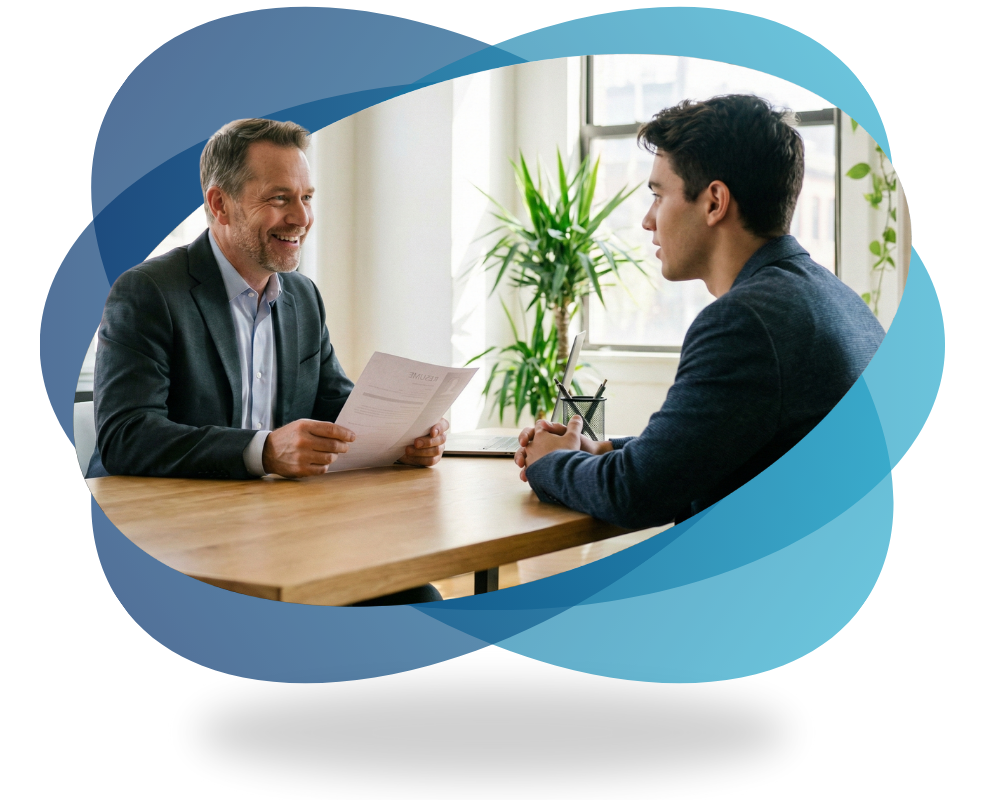
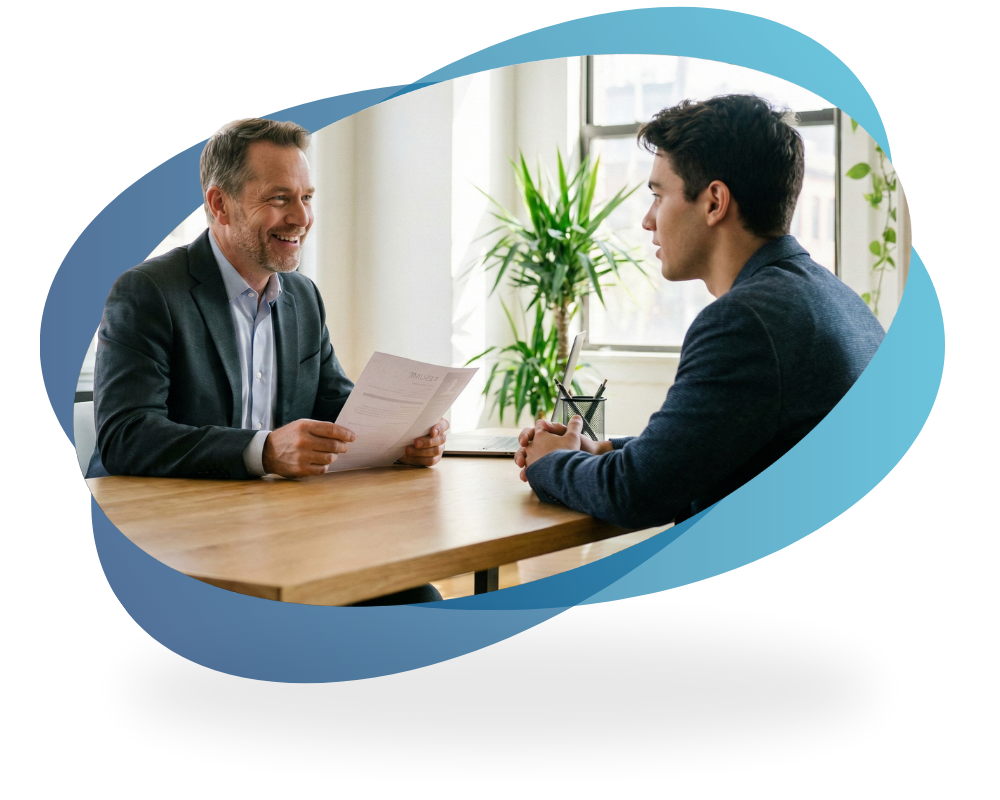
atualização da imagem

Changed region(s): [[0.217, 0.4688, 0.899, 0.9688], [0.093, 0.0, 0.527, 0.375]]

diff --git a/src/app/(site)/page.tsx b/src/app/(site)/page.tsx
@@ -1,4 +1,5 @@
-import Image from "next/image"; // Importe o componente Image
+import Image from "next/image";
+import Link from "next/link";
 import SearchBar from "@/src/components/SearchBar";
 import heroBgImage from "@/src/assets/backgrounds/bg-1.png";
 import { ButtonType } from "@/src/components/ButtonType";
@@ -8,8 +9,11 @@ import FAQ from "@/src/components/FAQ";
 export default function Home() {
   return (
     <div className="w-full">
-      <main className="flex min-h-screen flex-col md:pt-24 pt-12">
-        {/* SEÇÃO HERO */}
+      {/* Adicionei overflow-x-hidden para garantir que nada estoure a largura da tela */}
+      <main className="flex min-h-screen flex-col md:pt-24 pt-12 overflow-x-hidden">
+
+        {/* --- SEÇÃO HERO --- */}
+        {/* MUDANÇA: bg-[#1459ad] -> bg-primary (Usa sua variável global) */}
         <div className="relative w-full min-h-[600px] flex flex-col items-center justify-center text-center px-4 md:px-14 py-32 bg-[#1459ad]">
           <Image
             src={heroBgImage}
@@ -17,49 +21,52 @@ export default function Home() {
             fill
             priority
             className="object-cover object-center opacity-40 mix-blend-overlay"
-            quality={50}
+            quality={60} // Subi levemente a qualidade para telas retina
           />
-          <div className="absolute inset-0 bg-[#1459ad]/90 mix-blend-multiply"></div>
+
+          {/* MUDANÇA: Overlay usando bg-primary */}
+          <div className="absolute inset-0 bg-primary/90 mix-blend-multiply"></div>
+
           <div className="relative z-10 flex flex-col items-center space-y-8 max-w-5xl">
-            <h1 className="text-3xl md:text-6xl font-bold text-white leading-tight tracking-tight drop-shadow-lg overflow-hidden">
+            <h1 className="text-3xl md:text-6xl font-bold text-white leading-tight tracking-tight drop-shadow-lg">
               Sua próxima conquista profissional começa aqui.
             </h1>
             <p className="text-lg md:text-2xl text-blue-100 max-w-3xl font-medium drop-shadow-md">
               Encontre as melhores oportunidades e conecte-se com empresas da região na ACI Empregos.
             </p>
+
             <div className="w-full flex justify-center pt-8">
               <SearchBar />
             </div>
-            <a className="text-white hover:text-blue-200 transition-colors cursor-pointer">Ver Todas as Vagas →</a>
+
+            {/* MUDANÇA: Tag <a> virou <Link> com href correto */}
+            <Link
+              href="/vagas"
+              className="text-white font-medium hover:text-blue-200 hover:underline transition-all cursor-pointer mt-4"
+            >
+              Ver Todas as Vagas →
+            </Link>
           </div>
         </div>
 
-        <div className="w-full bg-gray-100 py-16 min-h-[750px] flex items-center justify-center">
-          {/* 1. flex-col-reverse: No celular, inverte a ordem dos BLOCOS PRINCIPAIS.
-         O bloco de texto vai para cima, o bloco da imagem vai para baixo.
-  */}
-          <div className="flex flex-col-reverse md:flex-row max-w-7xl mx-auto px-6 md:px-8 items-center justify-center gap-8 md:gap-16">
+        {/* --- SEÇÃO BANCO DE TALENTOS --- */}
+        <div className="w-full min-h-[750px bg-gray-50 py-24 flex items-center justify-center">
 
-            {/* --- BLOCO 1: IMAGEM (+ Botão Mobile) --- */}
+          <div className="flex flex-col-reverse md:flex-row max-w-7xl mx-auto px-6 md:px-8 items-center justify-center gap-12 md:gap-20">
+
             <div className="w-full md:w-1/2 flex flex-col items-center">
-
-              {/* A Imagem */}
               <RandomDesignImage />
 
-              {/* --- BOTÃO MOBILE --- */}
-              {/* md:hidden -> Some quando a tela for média ou maior (PC) */}
-              {/* mt-8 -> Dá um espaço entre a imagem e o botão */}
+              {/* Botão Mobile (Só aparece em telas pequenas) */}
               <div className="w-full md:hidden mt-8 flex justify-center">
-                <ButtonType href="/candidato/login" variant="primary" size="lg" className="w-full">
+                <ButtonType href="/candidato/login" variant="primary" size="lg" className="w-full shadow-lg">
                   Cadastre-se no Banco de Talentos
                 </ButtonType>
               </div>
-
             </div>
 
-            {/* --- BLOCO 2: TEXTO (+ Botão Desktop) --- */}
+            {/* Coluna Texto */}
             <div className="w-full md:w-1/2 flex flex-col items-center md:items-start text-center md:text-left justify-center space-y-6">
-
               <h2 className="text-3xl md:text-4xl font-bold text-gray-800 leading-tight">
                 Faça parte do Banco de Talentos da ACI - Panambi
               </h2>
@@ -69,18 +76,17 @@ export default function Home() {
                 Cadastre-se agora e aumente suas chances de conquistar a vaga dos seus sonhos!
               </p>
 
-              {/* --- BOTÃO DESKTOP --- */}
-              {/* hidden md:inline-flex -> Escondido no celular, aparece flex no PC */}
-              <div className="hidden md:block pt-2">
-                <ButtonType href="/candidato/login" variant="primary" size="lg">
+              {/* Botão Desktop (Só aparece em telas médias+) */}
+              <div className="hidden md:block pt-4">
+                <ButtonType href="/candidato/login" variant="primary" size="lg" className="shadow-lg">
                   Cadastre-se no Banco de Talentos
                 </ButtonType>
               </div>
-
             </div>
 
           </div>
         </div>
+        {/* --- SEÇÃO FAQ --- */}
         <FAQ />
       </main>
     </div>

diff --git a/src/app/(site)/RandomDesignImagem.tsx b/src/app/(site)/RandomDesignImagem.tsx
@@ -10,10 +10,9 @@ import Img3 from "@/src/assets/designs/3.png";
 import Img4 from "@/src/assets/designs/4.png";
 import Img5 from "@/src/assets/designs/5.png";
 import Img6 from "@/src/assets/designs/6.png";
-import Img7 from "@/src/assets/designs/7.png";
 
 // Array com todas as opções
-const designs = [Img1, Img2, Img3, Img4, Img5, Img6, Img7];
+const designs = [Img1, Img2, Img3, Img4, Img5, Img6];
 
 export const RandomDesignImage = () => {
   const [imageSrc, setImageSrc] = useState(designs[0]); // Começa com a 1 como padrão
